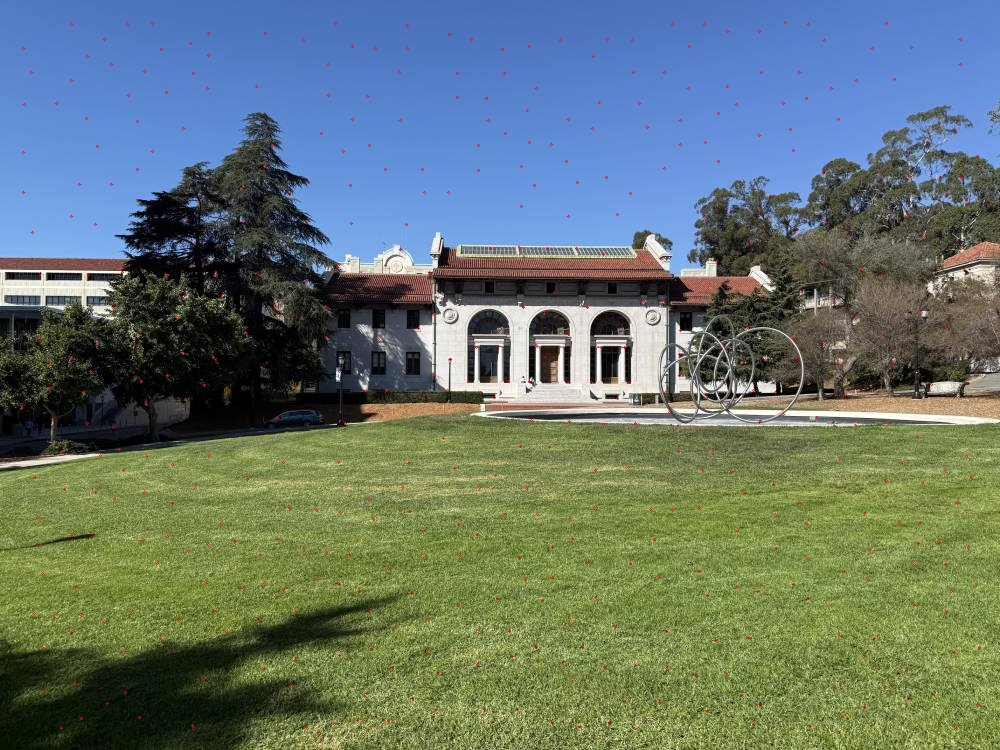
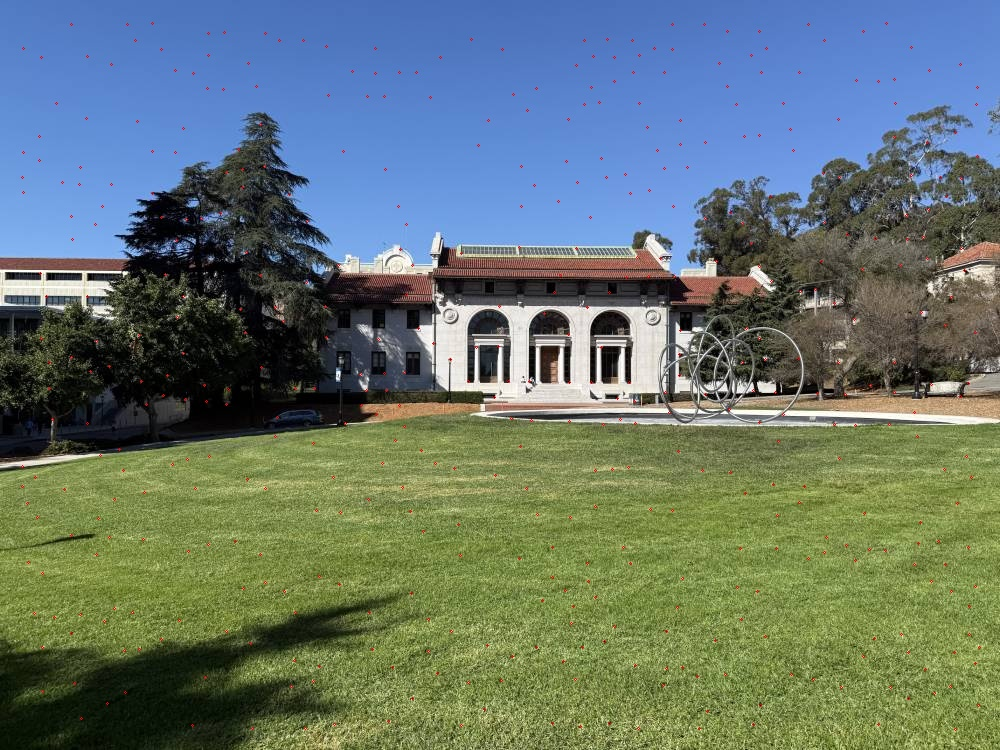
add matches

diff --git a/project_3/index.html b/project_3/index.html
@@ -285,38 +285,58 @@
     <h4>Part B.3: Feature Matching</h4>
     <div class="img-group">
         <div class="img-item">
-            <img src="assets/hearst_left_descriptor_2.jpg">
-            <p><em>Hearst Descriptor 2 (left)</em></p>
+            <img src="assets/hearst_left_descriptor_1.jpg">
+            <p><em>Hearst Descriptor 1 (left)</em></p>
         </div>
         <div class="img-item">
-            <img src="assets/hearst_left_descriptor_4.jpg">
-            <p><em>Hearst Descriptor 4 (left)</em></p>
+            <img src="assets/hearst_left_descriptor_2.jpg">
+            <p><em>Hearst Descriptor 2 (left)</em></p>
         </div>
         <div class="img-item">
             <img src="assets/hearst_right_descriptor_1.jpg">
             <p><em>Hearst Descriptor 1 (right)</em></p>
         </div>
         <div class="img-item">
-            <img src="assets/hearst_right_descriptor_3.jpg">
-            <p><em>Hearst Descriptor 3 (right)</em></p>
+            <img src="assets/hearst_right_descriptor_6.jpg">
+            <p><em>Hearst Descriptor 6 (right)</em></p>
         </div>
     </div>
     <div class="img-group">
         <div class="img-item">
-            <img src="assets/hearst_middle_descriptor_2.jpg">
-            <p><em>Hearst Descriptor 2 (middle)</em></p>
-        </div>
-        <div class="img-item">
-            <img src="assets/hearst_middle_descriptor_8.jpg">
-            <p><em>Hearst Descriptor 8 (middle)</em></p>
-        </div>
-        <div class="img-item">
-            <img src="assets/hearst_middle_descriptor_5.jpg">
-            <p><em>Hearst Descriptor 5 (middle)</em></p>
+            <img src="assets/hearst_middle_descriptor_146.jpg">
+            <p><em>Hearst Descriptor 146 (middle)</em></p>
         </div>
         <div class="img-item">
             <img src="assets/hearst_middle_descriptor_0.jpg">
             <p><em>Hearst Descriptor 0 (middle)</em></p>
+        </div>
+        <div class="img-item">
+            <img src="assets/hearst_middle_descriptor_233.jpg">
+            <p><em>Hearst Descriptor 233 (middle)</em></p>
+        </div>
+        <div class="img-item">
+            <img src="assets/hearst_middle_descriptor_66.jpg">
+            <p><em>Hearst Descriptor 66 (middle)</em></p>
+        </div>
+    </div>
+    <div class="img-group">
+        <div class="img-item">
+            <img src="assets/hearst_left_matches.jpg">
+            <p><em>Hearst Matches (left)</em></p>
+        </div>
+        <div class="img-item">
+            <img src="assets/hearst_middle_l_matches.jpg">
+            <p><em>Hearst Matches (middle)</em></p>
+        </div>
+    </div>
+    <div class="img-group">
+        <div class="img-item">
+            <img src="assets/hearst_middle_r_matches.jpg">
+            <p><em>Hearst Matches (middle)</em></p>
+        </div>
+        <div class="img-item">
+            <img src="assets/hearst_right_matches.jpg">
+            <p><em>Hearst Matches (right)</em></p>
         </div>
     </div>
 
